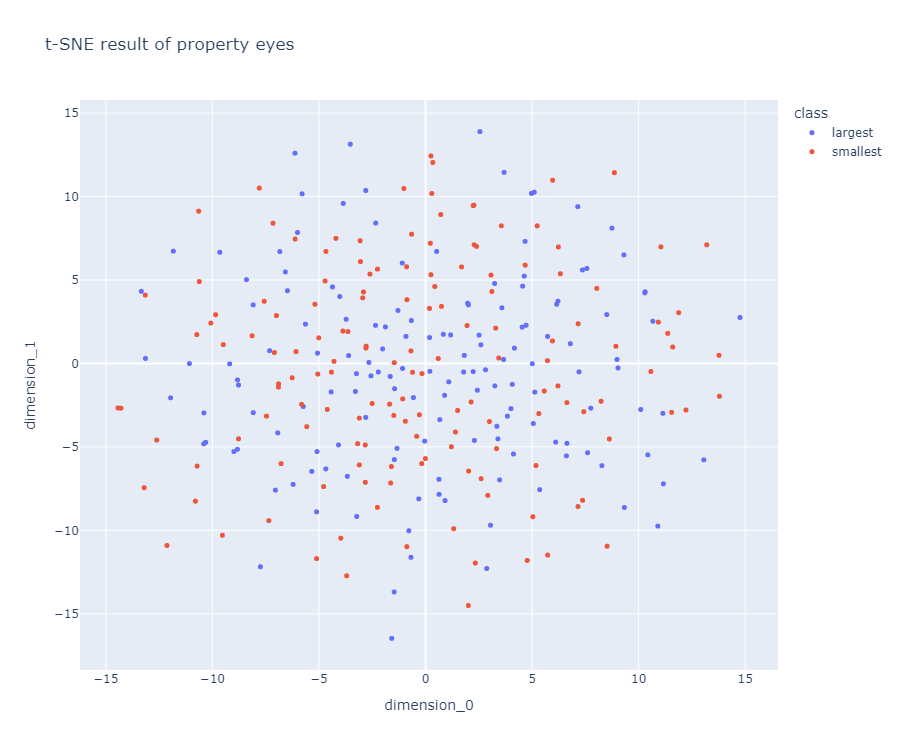
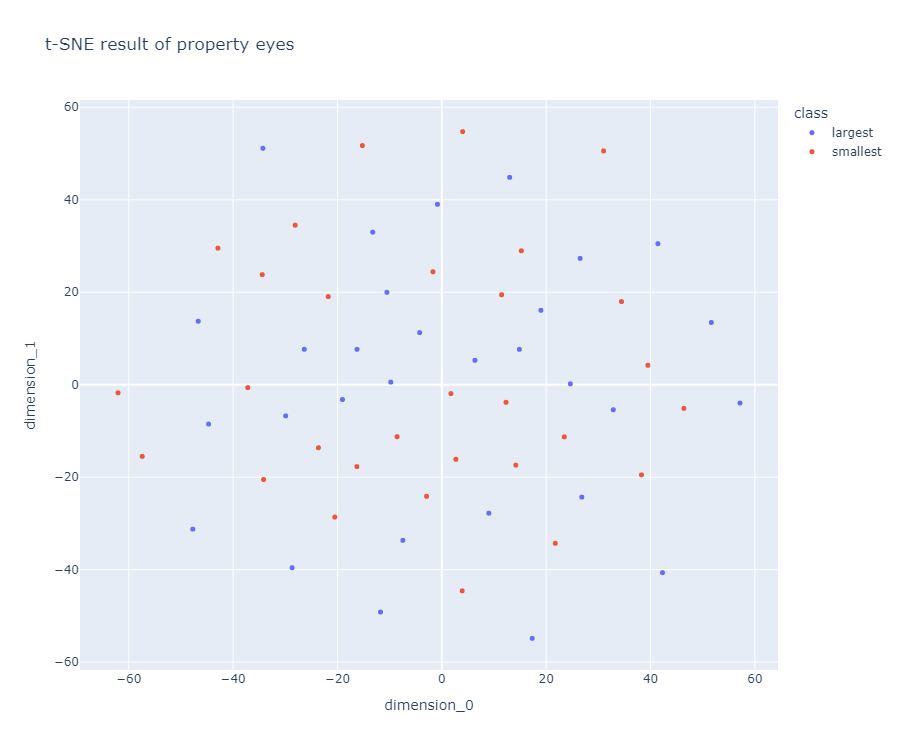
ADD: training SVM

diff --git a/2025_05_02_OhLoRA_v2/stylegan/stylegan_vectorfind_v6/run_vector_find.py b/2025_05_02_OhLoRA_v2/stylegan/stylegan_vectorfind_v6/run_vector_find.py
@@ -8,6 +8,7 @@ import os
 import pandas as pd
 import plotly.express as px
 
+from sklearn import svm
 from sklearn.manifold import TSNE
 from torchvision.io import read_image
 
@@ -34,7 +35,7 @@ BATCH_SIZE = 20
 #                                    'mouth_cnn_score': list(float),
 #                                    'pose_cnn_score': list(float)}
 
-def sample_z_and_compute_property_scores(finetune_v1_generator, property_score_cnn, n=2500):
+def sample_z_and_compute_property_scores(finetune_v1_generator, property_score_cnn, n=3000):
     save_dir = f'{PROJECT_DIR_PATH}/stylegan/stylegan_vectorfind_v6/inference_test_during_training'
 
     z = np.random.normal(0, 1, size=(n, ORIGINAL_HIDDEN_DIMS_Z)).astype(np.float64)
@@ -96,7 +97,7 @@ def sample_z_and_compute_property_scores(finetune_v1_generator, property_score_c
 #                          'mouth_largest': list(int), 'mouth_smallest': list(int),
 #                          'pose_largest': list(int), 'pose_smallest': list(int)}
 
-def extract_best_and_worst_k_images(property_scores, k=150):
+def extract_best_and_worst_k_images(property_scores, k=30):
 
     # sort scores with index
     eyes_cnn_scores_with_idx = []
@@ -199,10 +200,66 @@ def run_tsne(latent_vectors, indices_info):
 #                                   'eyes_largest': list(int), 'eyes_smallest': list(int)}
 
 # Returns:
-# - svm (SVM) : 학습된 SVM (Support Vector Machine)
+# - svm_classifiers (dict(SVM)) : 학습된 SVM (Support Vector Machine)
+#                                 {'eyes': SVM, 'mouth': SVM, 'pose': SVM}
 
 def train_svm(latent_vectors, indices_info):
-    raise NotImplementedError
+    property_names = ['eyes', 'mouth', 'pose']
+    train_ratio = 0.8
+    svm_classifiers = {}
+
+    # use option from original paper (higan/blob/master/utils/boundary_searcher.py GenForce GitHub)
+    for property_name in property_names:
+
+        # create dataset
+        largest_img_idxs = indices_info[f'{property_name}_largest']
+        smallest_img_idxs = indices_info[f'{property_name}_smallest']
+        largest_train_count = int(train_ratio * len(largest_img_idxs))
+        smallest_train_count = int(train_ratio * len(smallest_img_idxs))
+
+        train_idxs = largest_img_idxs[:largest_train_count] + smallest_img_idxs[:smallest_train_count]
+        valid_idxs = largest_img_idxs[largest_train_count:] + smallest_img_idxs[smallest_train_count:]
+        train_latent_vectors = latent_vectors[train_idxs]
+        valid_latent_vectors = latent_vectors[valid_idxs]
+
+        train_classes = ['largest'] * largest_train_count + ['smallest'] * smallest_train_count
+        valid_classes = ['largest'] * (len(largest_img_idxs) - largest_train_count) + ['smallest'] * (len(smallest_img_idxs) - smallest_train_count)
+
+        # train SVM
+        print(f'\ntraining SVM for {property_name} ...')
+        svm_clf = svm.SVC(kernel='linear')
+        svm_classifier = svm_clf.fit(train_latent_vectors, train_classes)
+
+        # valid SVM
+        valid_predictions = svm_classifier.predict(valid_latent_vectors)
+
+        # compute performance metric
+        large_large = np.sum((np.array(valid_predictions) == 'largest') & (np.array(valid_classes) == 'largest'))
+        large_small = np.sum((np.array(valid_predictions) == 'largest') & (np.array(valid_classes) == 'smallest'))
+        small_large = np.sum((np.array(valid_predictions) == 'smallest') & (np.array(valid_classes) == 'largest'))
+        small_small = np.sum((np.array(valid_predictions) == 'smallest') & (np.array(valid_classes) == 'smallest'))
+
+        accuracy = (large_large + small_small) / (large_large + large_small + small_large + small_small)
+
+        large_recall = large_large / (large_large + small_large)
+        large_precision = large_large / (large_large + large_small)
+        large_f1 = 2 * large_recall * large_precision / (large_recall + large_precision)
+
+        small_recall = small_small / (small_small + large_small)
+        small_precision = small_small / (small_small + small_large)
+        small_f1 = 2 * small_recall * small_precision / (small_recall + small_precision)
+
+        print(f'accuracy          : {accuracy:.4f}')
+        print(f'recall    (large) : {large_recall:.4f}')
+        print(f'precision (large) : {large_precision:.4f}')
+        print(f'F1 score  (large) : {large_f1:.4f}')
+        print(f'recall    (small) : {small_recall:.4f}')
+        print(f'precision (small) : {small_precision:.4f}')
+        print(f'F1 score  (small) : {small_f1:.4f}')
+
+        svm_classifiers[property_name] = svm_classifier
+
+    return svm_classifiers
 
 
 # SVM 을 이용하여 핵심 속성 값의 변화를 나타내는 latent z vector 를 도출
@@ -210,7 +267,8 @@ def train_svm(latent_vectors, indices_info):
 # Last Update Date : -
 
 # Arguments:
-# - svm                   (SVM)       : 학습된 SVM (Support Vector Machine)
+# - svm_classifiers       (dict(SVM)) : 학습된 SVM (Support Vector Machine)
+#                                       {'eyes': SVM, 'mouth': SVM, 'pose': SVM}
 # - finetune_v1_generator (nn.Module) : StyleGAN-FineTune-v1 의 Generator
 # - property_score_cnn    (nn.Module) : 핵심 속성 값 계산용 CNN 모델
 
@@ -220,7 +278,7 @@ def train_svm(latent_vectors, indices_info):
 #                                    'mouth_vector': Numpy array,
 #                                    'pose_vector': Numpy array}
 
-def find_property_score_vectors(svm, finetune_v1_generator, property_score_cnn):
+def find_property_score_vectors(svm_classifiers, finetune_v1_generator, property_score_cnn):
     raise NotImplementedError
 
 
@@ -258,7 +316,7 @@ def run_stylegan_vector_find(finetune_v1_generator, device):
     run_tsne(latent_vectors, indices_info)
 
     # SVM 학습 & 해당 SVM 으로 핵심 속성 값의 변화를 나타내는 latent z vector 도출
-    svm = train_svm(latent_vectors, indices_info)
-    property_score_vectors = find_property_score_vectors(svm, finetune_v1_generator, property_score_cnn)
+    svm_classifiers = train_svm(latent_vectors, indices_info)
+    property_score_vectors = find_property_score_vectors(svm_classifiers, finetune_v1_generator, property_score_cnn)
 
     save_property_score_vectors_info(property_score_vectors)
